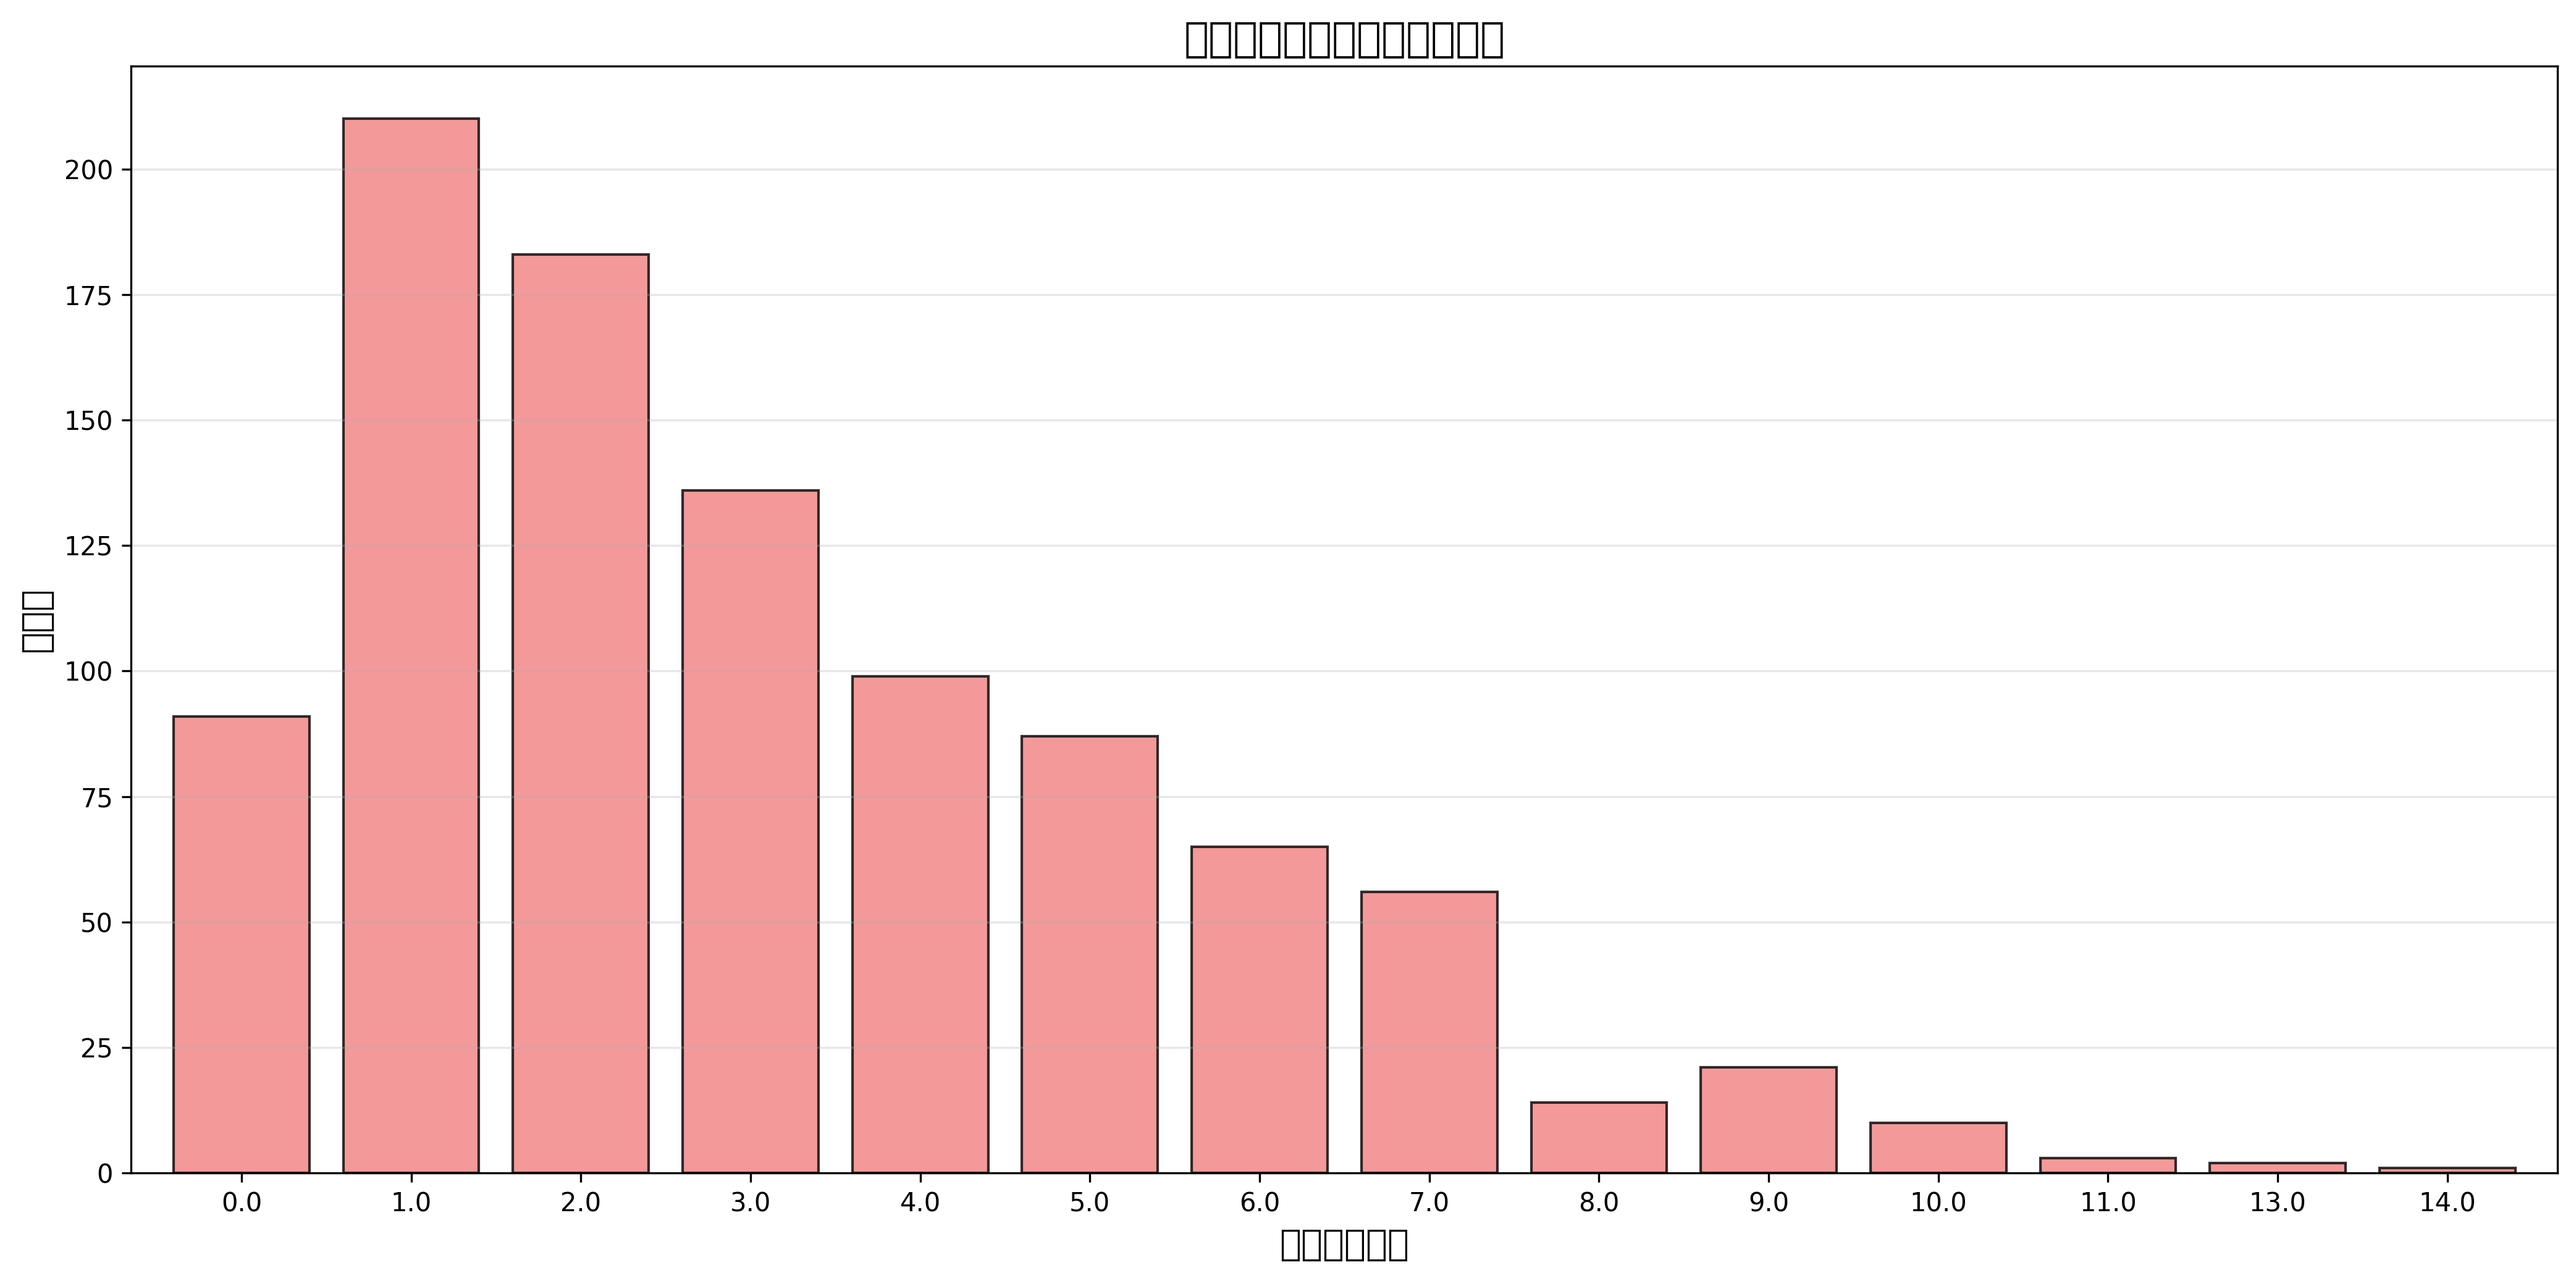
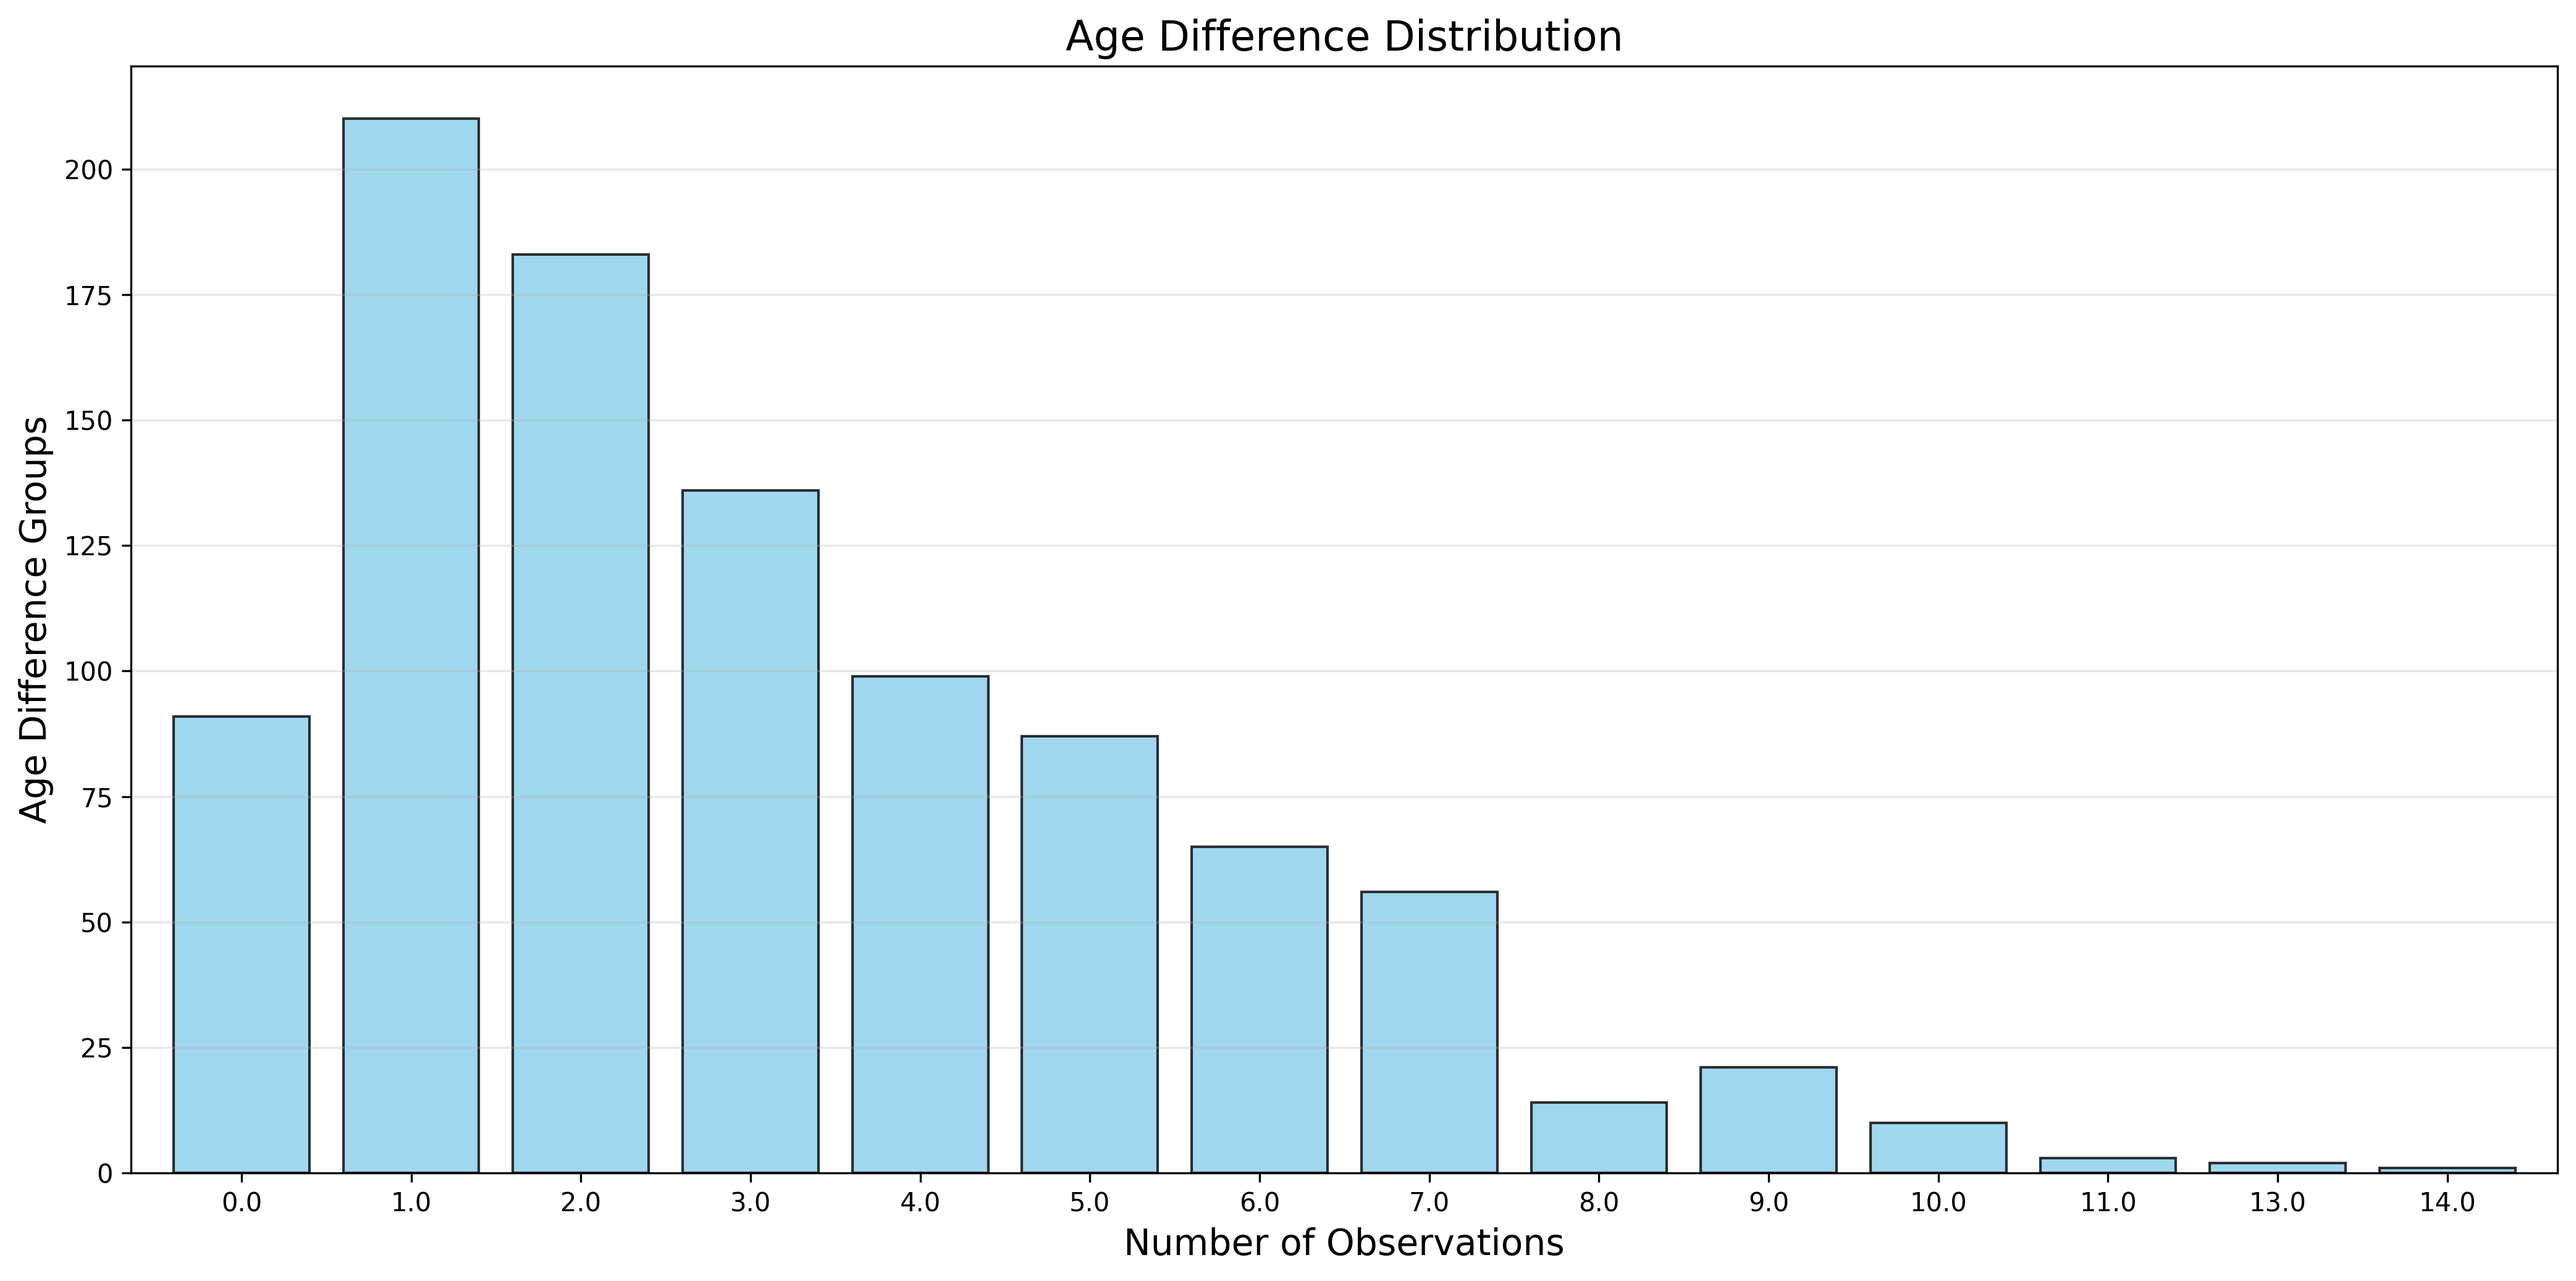
bar chart

diff --git a/bar_chart.py b/bar_chart.py
@@ -14,10 +14,10 @@ print(age_d_count)
 
 # 3. 绘制条形图（不分组，每个年龄差单独展示）
 plt.figure(figsize=(14, 7))
-age_d_count.plot(kind='bar', color='lightcoral', edgecolor='black', alpha=0.8, width=0.8)
-plt.title('年龄差分布条形图（不分组）', fontsize=16)
-plt.xlabel('年龄差（岁）', fontsize=14)
-plt.ylabel('观测数', fontsize=14)
+age_d_count.plot(kind='bar', color='skyblue', edgecolor='black', alpha=0.8, width=0.8)
+plt.title('Age Difference Distribution', fontsize=16)
+plt.xlabel('Number of Observations', fontsize=14)
+plt.ylabel('Age Difference Groups', fontsize=14)
 plt.xticks(rotation=0)  # 年龄差标签水平显示，不旋转
 plt.grid(axis='y', alpha=0.3)
 plt.tight_layout()
